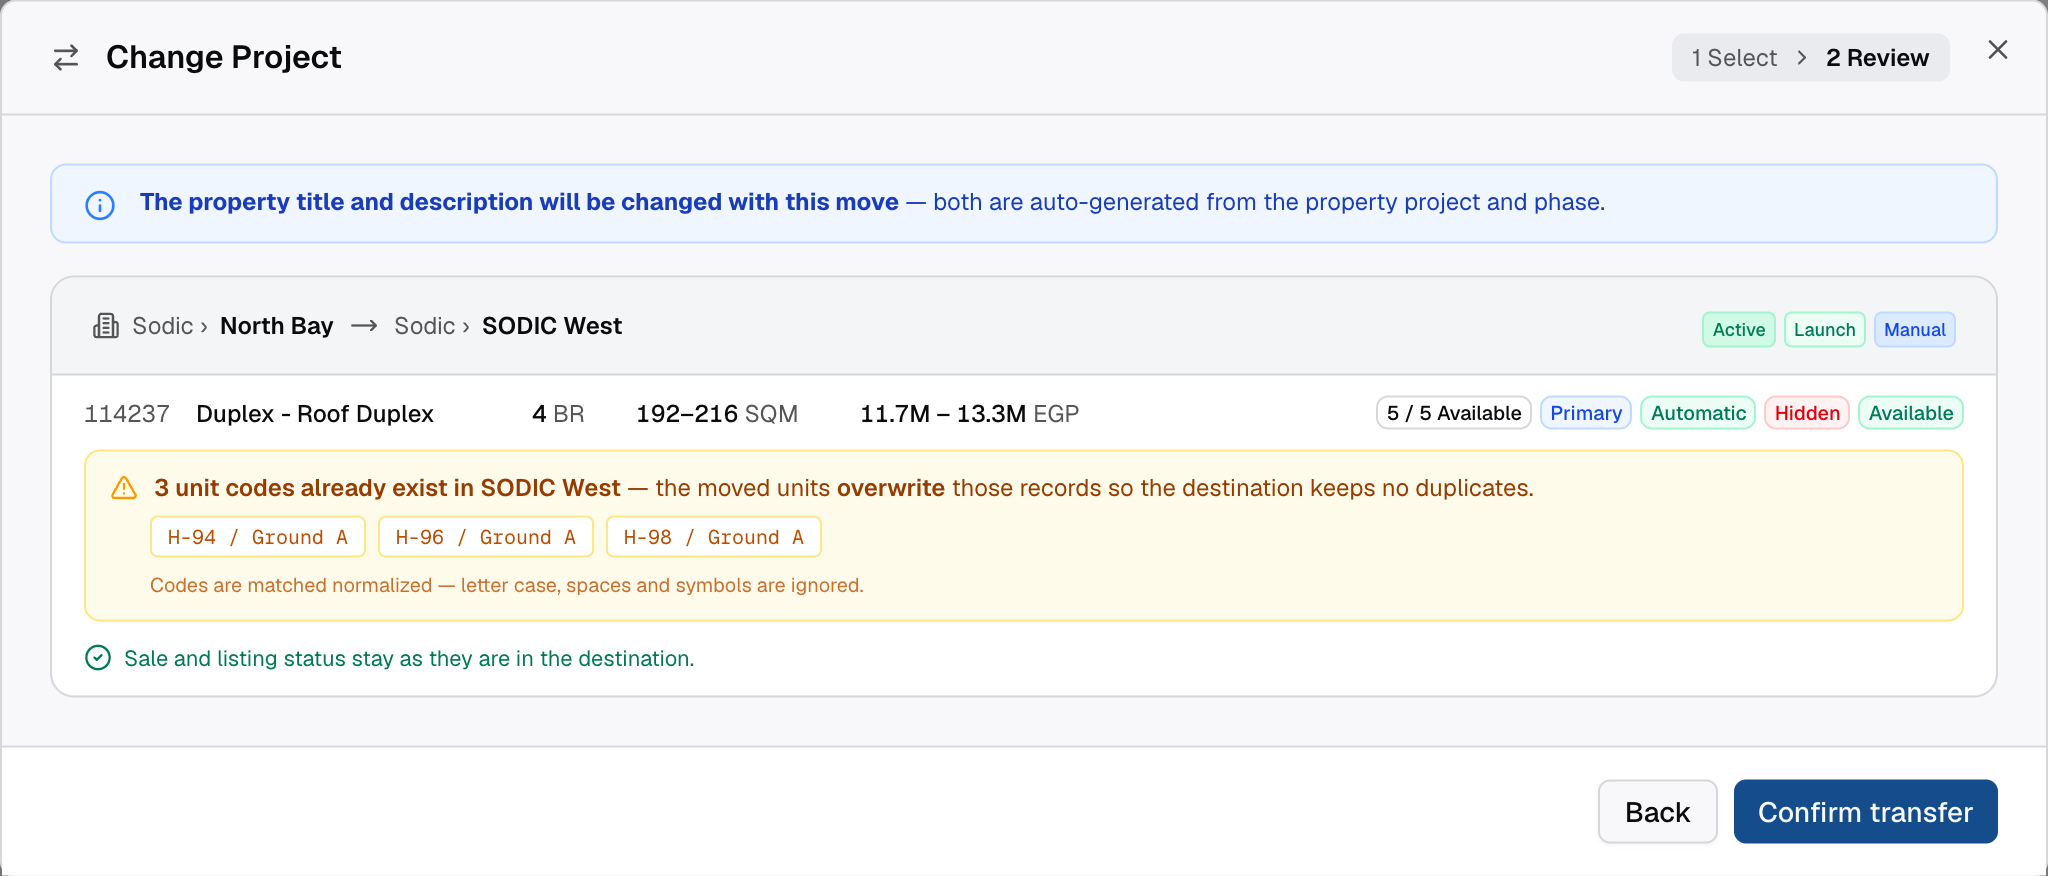
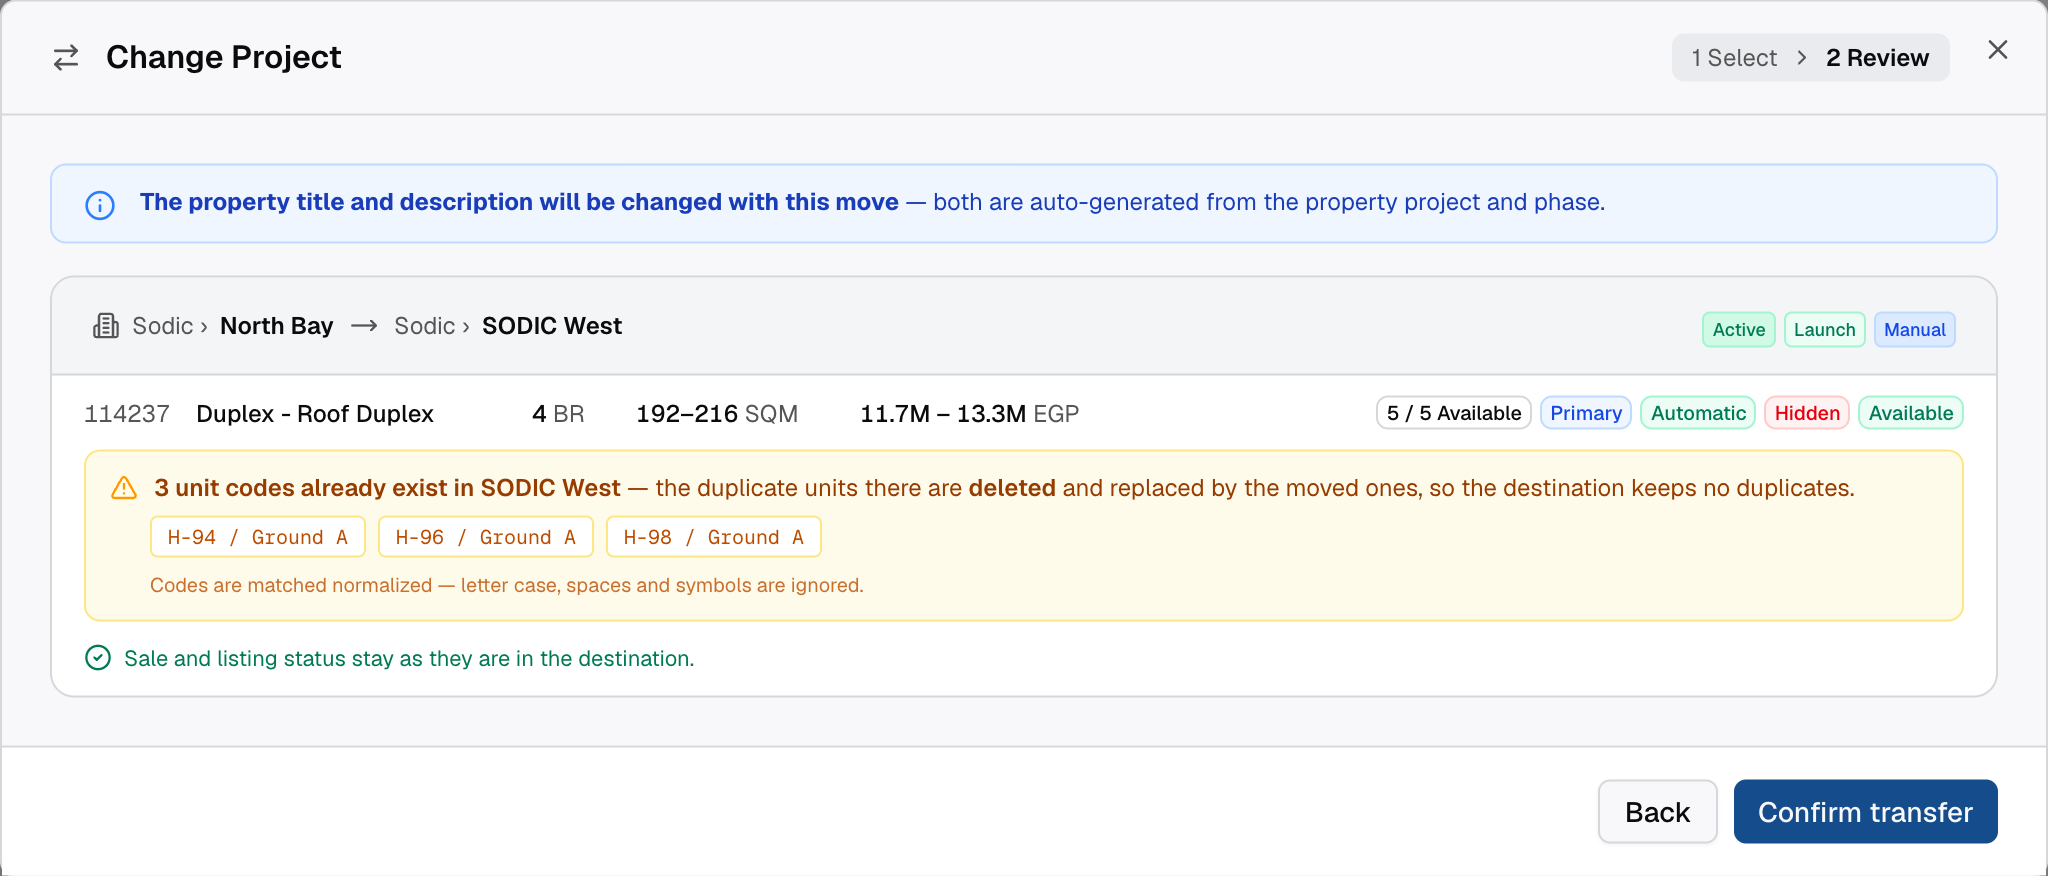
Overwrite is a delete-and-replace: say so in the UI and the story
Confirmed rules: the 80% cut-off is hard-coded, and an overwrite deletes the
duplicate in the destination — the detailed property alone on the unit-code
path, the detailed property + property + property metadata on the similarity
path (both sides of a linked Resale/Nawy Now pair). Copy and screenshots
updated to match.

Changed region(s): [[0.3438, 0.524, 0.9062, 0.5856]]

diff --git a/components/grouped-properties-page.tsx b/components/grouped-properties-page.tsx
@@ -2508,7 +2508,7 @@ function ChangeProjectModal({ open, onClose, selectedGroups, onConfirm, eligible
             <AlertTriangle className="mt-px h-3.5 w-3.5 shrink-0 text-amber-500" />
             <span>
               <span className="font-semibold">{c.dupes.length} unit code{c.dupes.length !== 1 ? "s" : ""} already exist{c.dupes.length === 1 ? "s" : ""} in {destName}</span>
-              {parent && <> or its parent <span className="font-semibold">{parent.name}</span></>} — the moved units <span className="font-semibold">overwrite</span> those records so the destination keeps no duplicates.
+              {parent && <> or its parent <span className="font-semibold">{parent.name}</span></>} — the duplicate units there are <span className="font-semibold">deleted</span> and replaced by the moved ones, so the destination keeps no duplicates.
             </span>
           </p>
           <div className="flex flex-wrap gap-1.5 pl-5">
@@ -3025,8 +3025,8 @@ function ChangeProjectModal({ open, onClose, selectedGroups, onConfirm, eligible
                     {asNew
                       ? "No property in the destination will be overwritten."
                       : matchLink
-                        ? `On confirmation the matched property, and its linked ${matchLink.kind} property ${matchLink.id}, are overwritten by this one and its linked unit.`
-                        : "On confirmation the matched property is overwritten by this one."}
+                        ? `On confirmation the matched property, and its linked ${matchLink.kind} property ${matchLink.id}, are deleted and replaced by this one and its linked unit.`
+                        : "On confirmation the matched property is deleted and replaced by this one."}
                   </p>
                   <Button size="sm" className="h-7 text-xs" onClick={() => setMatchDrawer(null)}>Done</Button>
                 </div>

diff --git a/product-workspace/outputs/stories/2026-09-28-change-project-single-record.md b/product-workspace/outputs/stories/2026-09-28-change-project-single-record.md
@@ -86,9 +86,10 @@ before anything is applied.
    and `h116groundA` are the same code.
 3. Scope: when a phase is chosen, codes are matched against **that phase and its parent project**; when only a
    project is chosen, against the project and all of its phases.
-4. Any code that already exists in the destination is a **duplicate**: the moved unit overwrites the destination
-   record so the destination is never left with two units of the same code. The clashing codes are listed in the
-   review, with the note that matching is normalized.
+4. Any code that already exists in the destination is a **duplicate**: on confirmation the destination's duplicate
+   **detailed property is deleted** and the moved unit takes its place, so the destination is never left with two
+   units of the same code. The destination's property and property metadata are untouched — the match is at unit
+   level. The clashing codes are listed in the review, with the note that matching is normalized.
 5. There is no choice to make here — an exact code match is an identity match, so no `Move as new` option is
    offered for this path.
 6. When no code clashes, the review states there is no conflict.
@@ -104,7 +105,8 @@ before anything is applied.
    not surfaced at all. When nothing reaches 80%, the review states no similar property was found and the move
    carries no conflict.
 4. When a match is found the user picks one of two outcomes, `Overwrite` (default) or `Move as new`:
-   1. `Overwrite` — the matched destination property is replaced by the moved one.
+   1. `Overwrite` — the matched destination property is replaced by the moved one: its **detailed property,
+      property and property metadata are deleted** as a duplicate, and the moved property takes its place.
    2. `Move as new` — nothing in the destination is touched; the property lands as a new record.
 5. `View matching details` on the confidence bar opens the matching drawer (2.8).
 
@@ -121,8 +123,8 @@ before anything is applied.
       property, naming its linked Resale property).
    2. Confirming the move moves **both records** to the same destination. The linked unit is not listed as a
       separate row to act on, and it cannot be excluded.
-   3. If the matched destination property is itself linked, overwriting replaces **both** the matched property and
-      its counterpart — stated in the drawer footer.
+   3. If the matched destination property is itself linked, overwriting deletes **both** the matched property and
+      its counterpart (each with its detailed property and property metadata) — stated in the drawer footer.
    4. The counterpart ID is shown on every card in the drawer as `Linked to: NN-XXXXX (Nawy Now)` /
       `Linked to: RSL-XXXXX (Resale)`, opening that record in a new tab.
 
@@ -171,9 +173,14 @@ before anything is applied.
 1. Unit-code comparison is normalized (`lower → trim → strip every non-alphanumeric character`) on both sides
    before comparing; the stored unit code itself is not rewritten.
 2. Similarity uses the existing manual-ingestion comparison service; this story does not introduce a new algorithm.
-   The 80% threshold should be configurable rather than hard-coded (to confirm).
-3. Overwriting keeps the destination record's ID and replaces its data with the moved property's, so links held by
-   other systems to the destination record stay valid (to confirm).
+   The 80% threshold is **hard-coded** — no setting, no per-sale-type override.
+3. Overwriting **deletes** the duplicate in the destination; the moved record is not merged into it:
+   1. Unit-code path (Primary Automatic) — delete the duplicate **detailed property** only.
+   2. Similarity path (Primary Manual, Resale, Nawy Now) — delete the duplicate **detailed property, property and
+      property metadata**.
+   3. A linked Resale ⇄ Nawy Now duplicate is deleted on both sides, each with its own records.
+   4. Deleted IDs are gone: anything holding the destination record's ID (external links, cached listings) must be
+      refreshed — the moved property keeps its own ID.
 4. Title and description regeneration reuses the existing auto-generation used at creation.
 5. The move is one transaction: the property, its detailed units and its linked counterpart all move or none do.
 
@@ -199,10 +206,12 @@ before anything is applied.
       destination's three tags appear on the destination line.
 - [ ] The title-and-description disclaimer is visible on both steps.
 - [ ] Primary Automatic into a destination holding the same unit code (written differently, e.g. `h116grounda`):
-      the code is listed as a duplicate and, after confirming, the destination holds one record, not two.
+      the code is listed as a duplicate and, after confirming, the destination's duplicate **detailed property** is
+      deleted, its property and property metadata still exist, and the destination holds one unit for that code.
 - [ ] Primary Automatic with no matching code: the review reports no conflict.
-- [ ] Primary Manual with a destination twin: a confidence percentage is shown, `Overwrite` is preselected, and
-      `Move as new` leaves the destination twin untouched after confirming.
+- [ ] Primary Manual with a destination twin: a confidence percentage is shown, `Overwrite` is preselected, and on
+      confirming the twin's **detailed property, property and property metadata are deleted**.
+- [ ] `Move as new` on the same case leaves the destination twin and all three of its records untouched.
 - [ ] A candidate below 80% is not offered anywhere — not as the match and not in `Other similar properties`.
 - [ ] In the drawer, `Use as match` on another candidate makes it the matched property and returns the decision to
       `Overwrite`; `No Match - Mark as New` mutes the match and the footer confirms nothing is overwritten.
@@ -227,8 +236,10 @@ before anything is applied.
   developer **written differently** (case/spacing/symbols); one Primary Manual property with a near-identical twin
   in another project; one Resale **with** a unit code and one **without**; one Resale ⇄ Nawy Now linked pair; and
   destination projects covering `On-Sale`, `On-Hold`, `Sold-Off`, `Hidden` listing, and both entry types.
-- Check after each overwrite that the destination holds exactly one record for the unit and that the overwritten
-  record's payment plans, images and detailed units are the moved property's.
+- Check after each overwrite what was actually deleted: unit-code path → only the duplicate detailed property;
+  similarity path → the detailed property, the property and the property metadata. Confirm no orphan property
+  metadata is left behind, and that the destination holds exactly one record for the unit.
 - Verify the moved property on the Website and the mobile app: a unit hidden by the move must disappear from
   listings, and titles must reflect the new project.
-- Back up the properties table before the first production run — the move overwrites destination records.
+- Back up the properties, detailed properties and property metadata tables before the first production run — an
+  overwrite deletes destination records and is not reversible from the UI.
